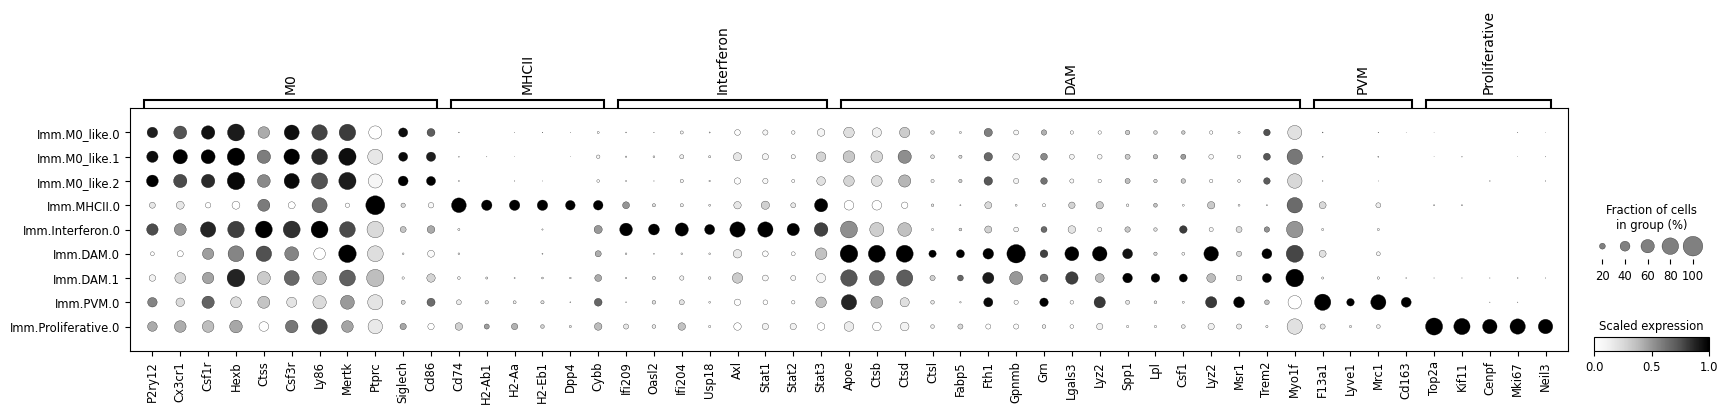
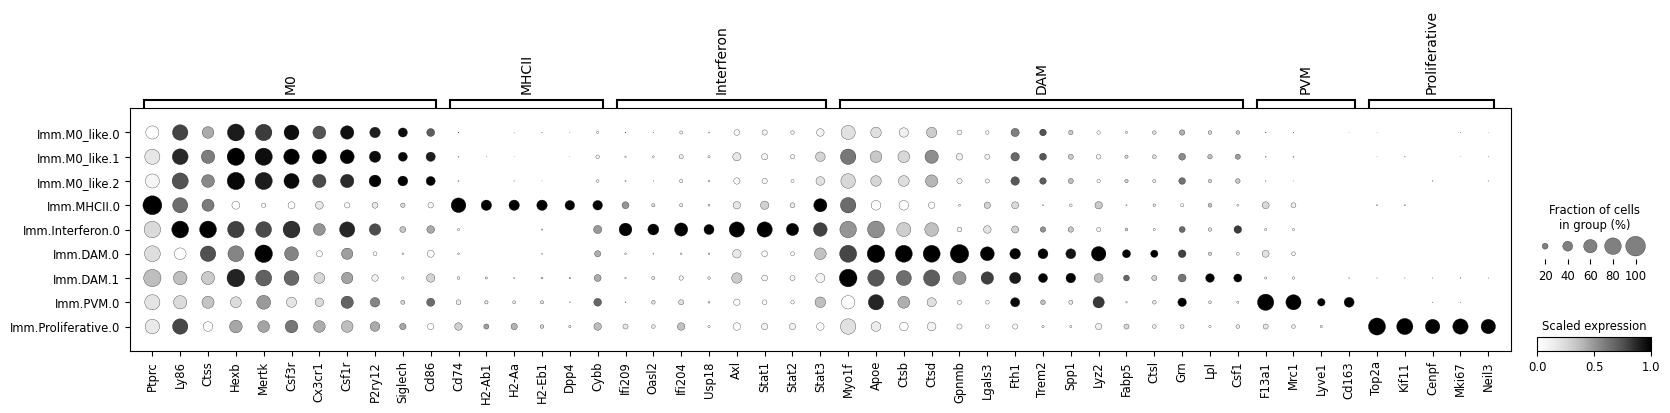
updates canonical

diff --git a/src/scripts/scripts_meningeal/meningeal_canonical.py b/src/scripts/scripts_meningeal/meningeal_canonical.py
@@ -116,8 +116,11 @@ def create_dotplots_with_thresholds(adata, genes, thresholds, cluster_order, out
         # Aggregate filtered genes by gene group
         top_genes_names = top_gene_names(filtered_genes, genes)
 
-        # Sort the gene groups alphabetically
-        top_genes_names = {key: top_genes_names[key] for key in sorted(top_genes_names.keys())}
+        # Example user-defined gene group order
+        user_gene_group_order = []
+
+        # Reorder the dictionary based on user order
+        top_genes_names = {key: top_genes_names[key] for key in user_gene_group_order}
 
         # Generate four different dotplots per threshold
         print(f"Generating dotplots for pts threshold: {threshold}")
@@ -309,8 +312,7 @@ if __name__ == "__main__":
     # Define thresholds
     pts_thresholds = [0.2, 0.3]
 
-    custom_cluster_order = [
-    "Imm.M0_like.0", "Imm.M0_like.1", "Imm.M0_like.2", "Imm.MHCII.0" ,"Imm.Interferon.0", "Imm.DAM.0", "Imm.DAM.1", "Imm.Proliferative.0"]
+    custom_cluster_order = []
 
     # Generate dotplots for each threshold
     create_dotplots_with_thresholds(filtered_adata, genes, pts_thresholds, custom_cluster_order)
